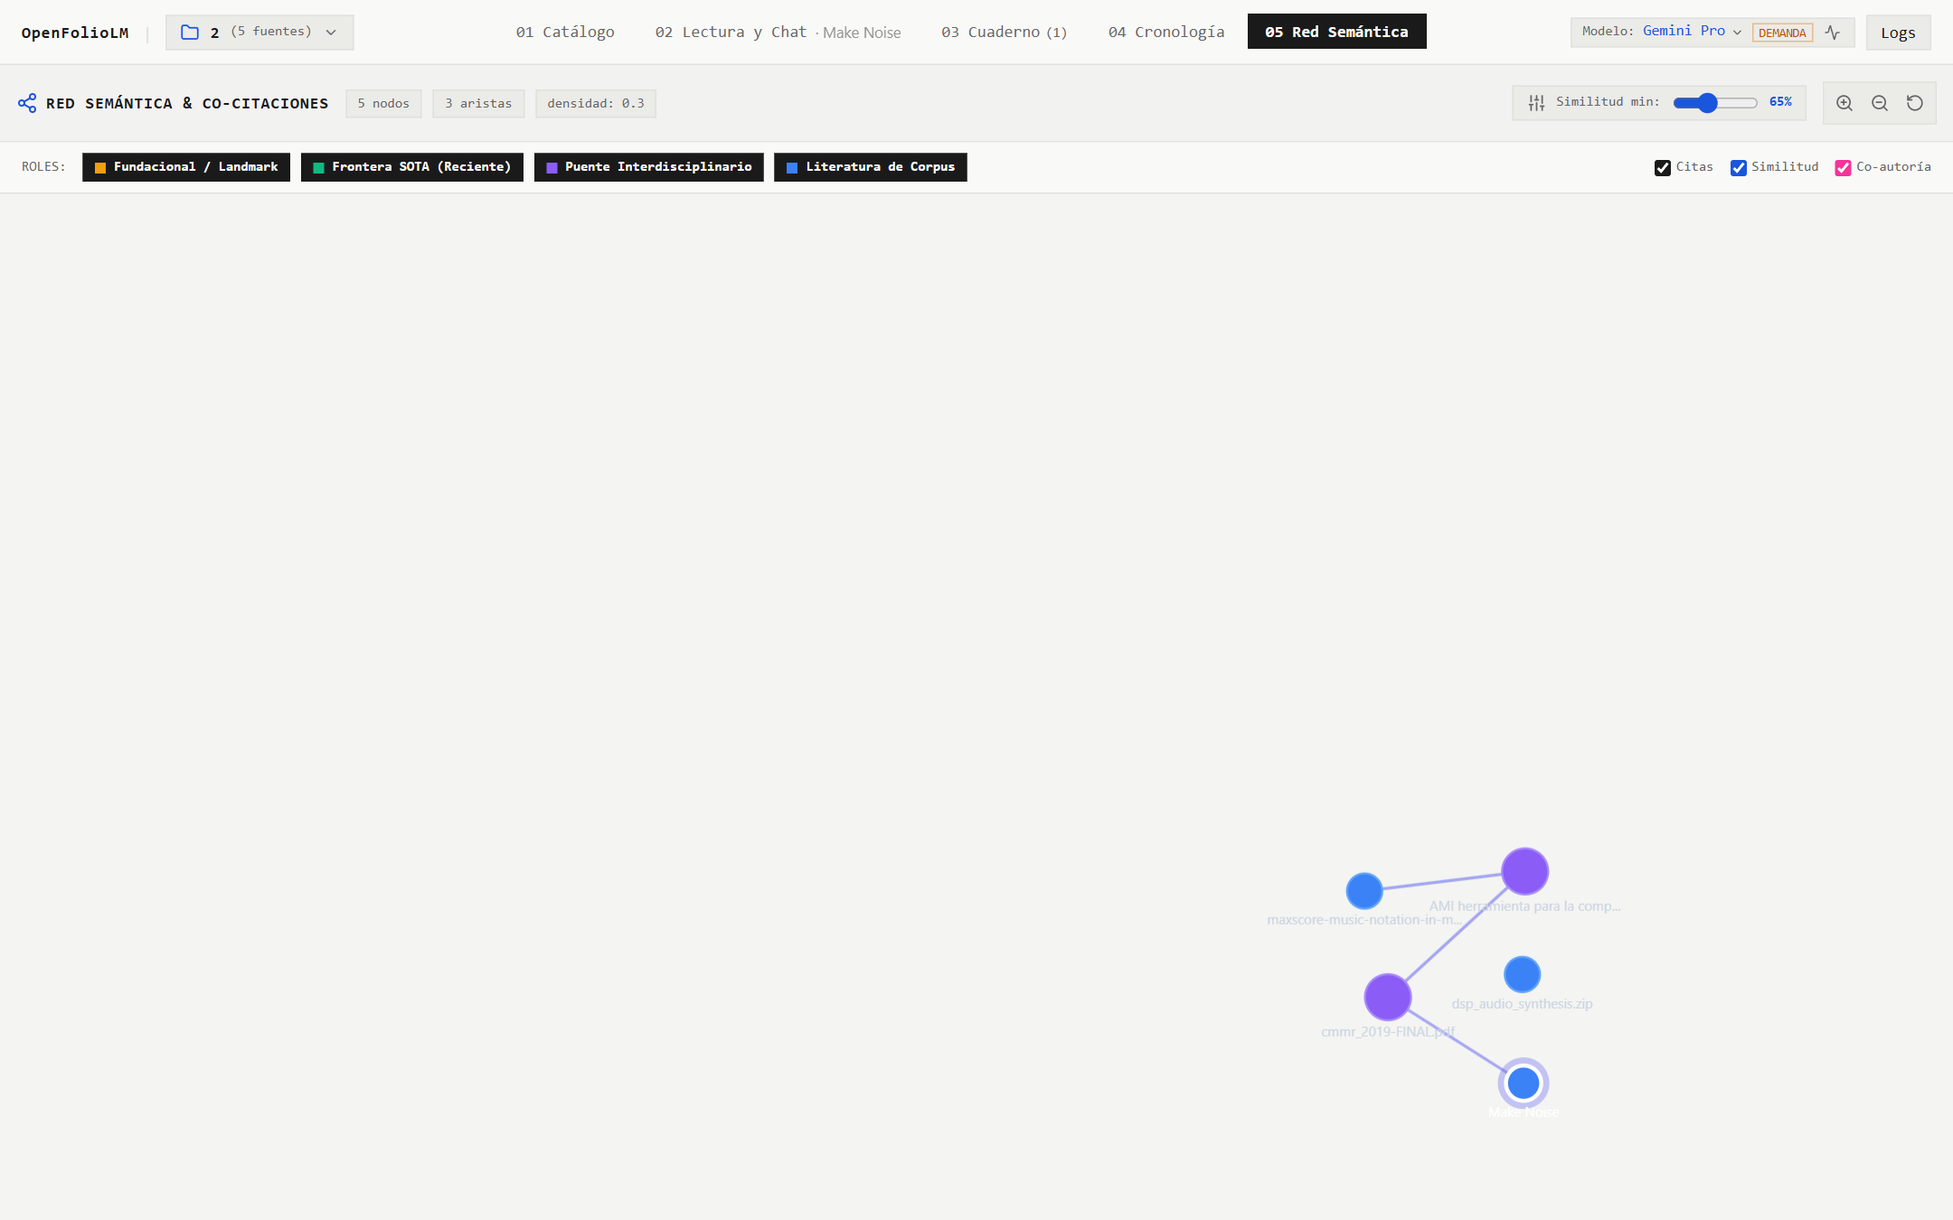
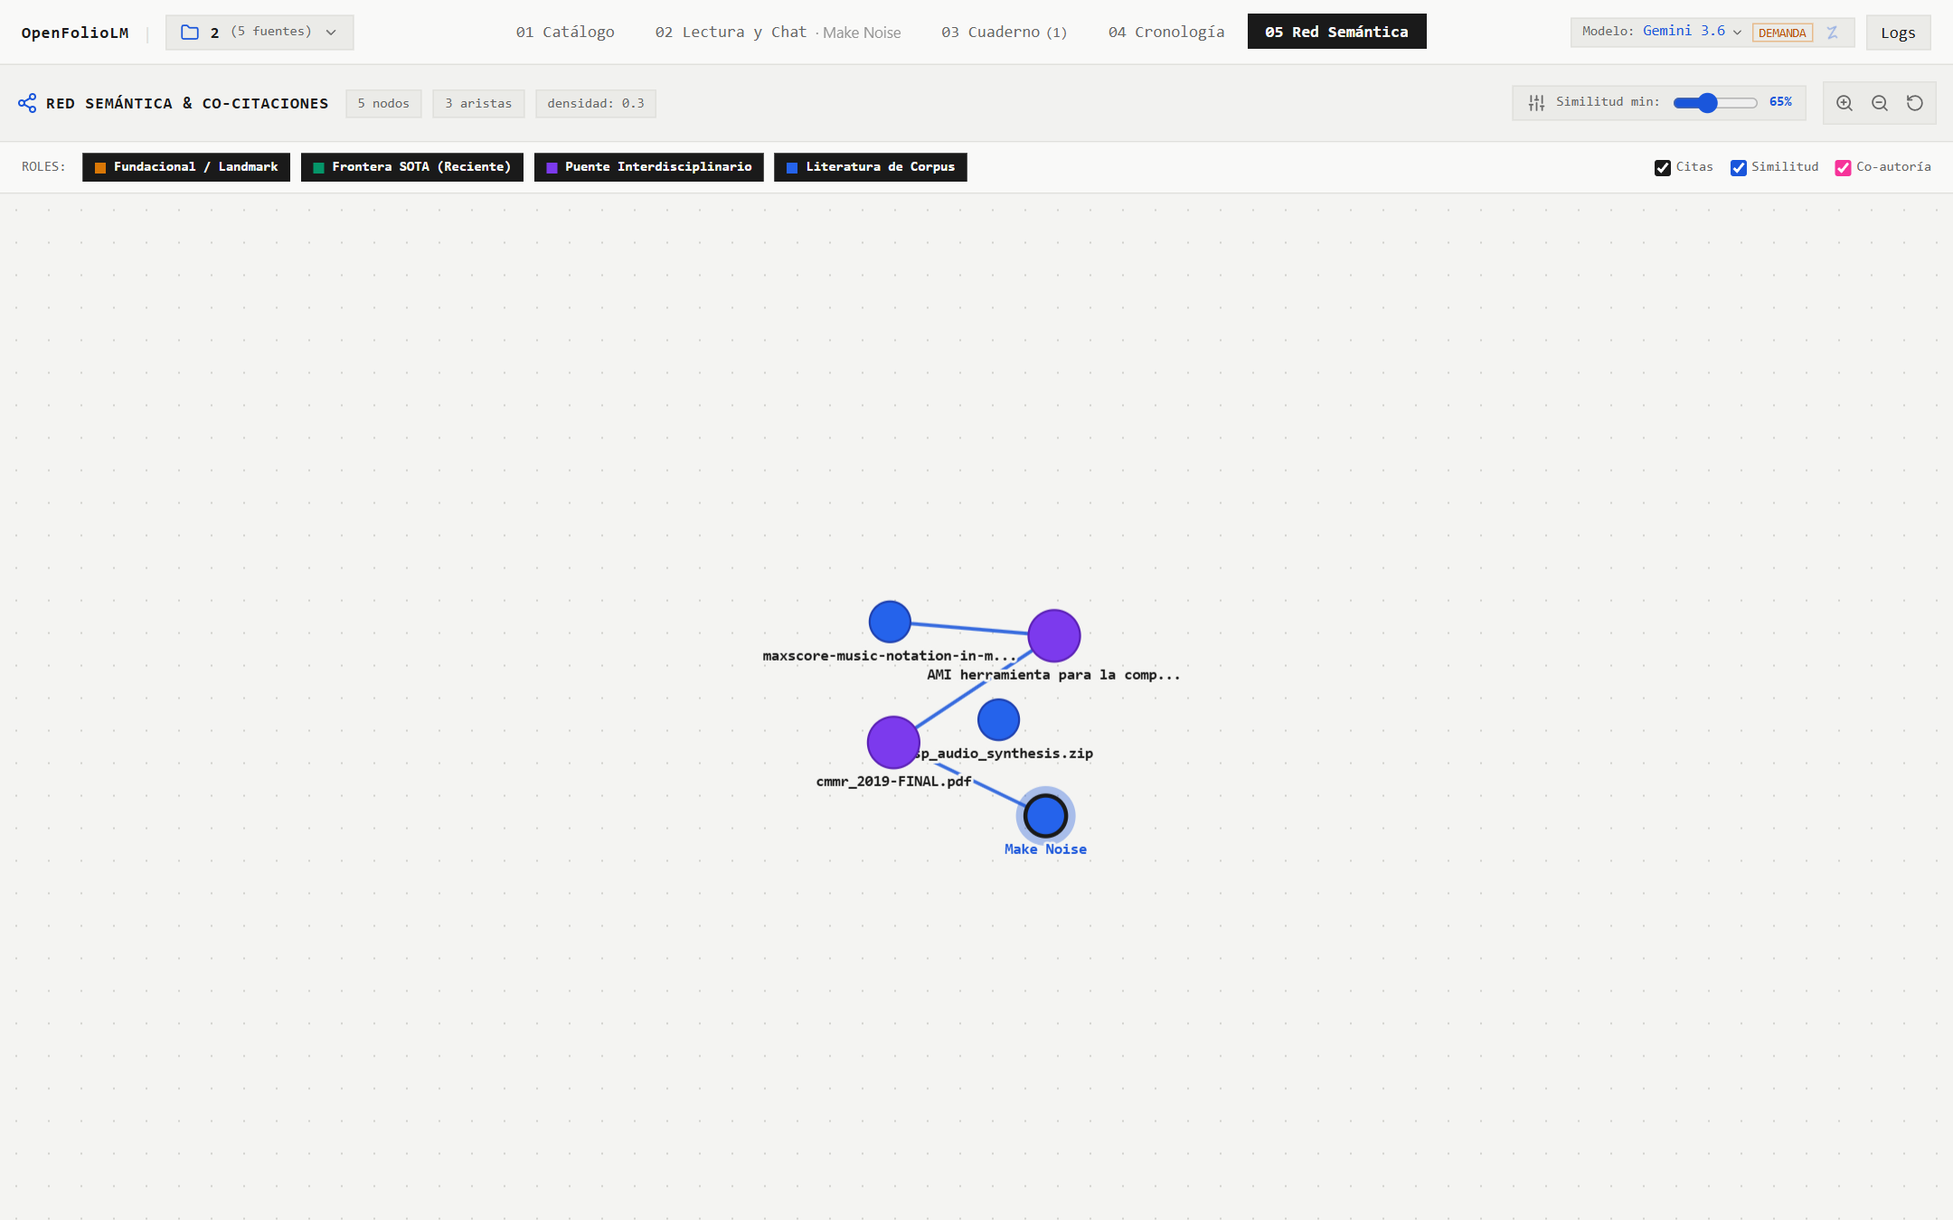
fix(ui): harmonize code viewer with paper-and-ink and improve graph contrast
- Migrate CodeViewer to Paper and Ink brutalist theme

- Correct canvas DPR coordinate space centering in NetworkGraphViewer

- Add high-contrast halos and dot-grid matrix to semantic graph

- Refresh all 17 user manual screenshots

diff --git a/frontend/src/components/CodeViewer.tsx b/frontend/src/components/CodeViewer.tsx
@@ -107,32 +107,32 @@ export const CodeViewer: React.FC<CodeViewerProps> = ({
   }, [fileKeys, filterQuery]);
 
   return (
-    <div className="h-full flex flex-col bg-slate-950 border-r border-slate-800/80 overflow-hidden select-text">
+    <div className="h-full flex flex-col bg-[#F9F9F8] dark:bg-[#121214] text-[#1A1A1A] dark:text-[#EDEDED] border-r border-[#E0E0DC] dark:border-[#2A2A2E] overflow-hidden select-text font-sans">
       {/* Code Header */}
-      <div className="flex items-center justify-between px-5 py-3 border-b border-slate-800/80 bg-slate-900/90 backdrop-blur shrink-0">
-        <div className="flex items-center gap-3 min-w-0">
-          <div className="p-2 bg-cyan-500/10 text-cyan-400 rounded-lg border border-cyan-500/20">
-            {isRepo ? <FolderTree className="w-5 h-5" /> : <Code2 className="w-5 h-5" />}
+      <div className="flex items-center justify-between px-4 py-2.5 border-b border-[#E0E0DC] dark:border-[#2A2A2E] bg-[#F2F2F0] dark:bg-[#161618] shrink-0 font-mono">
+        <div className="flex items-center gap-2.5 min-w-0">
+          <div className="p-1.5 bg-[#EBEBE8] dark:bg-[#1E1E22] text-[#1A56DB] dark:text-[#60A5FA] border border-[#E0E0DC] dark:border-[#2A2A2E]">
+            {isRepo ? <FolderTree className="w-4 h-4" /> : <Code2 className="w-4 h-4" />}
           </div>
           <div className="min-w-0">
             <div className="flex items-center gap-2">
-              <h2 className="text-sm font-semibold text-slate-200 truncate font-mono" title={currentFileName}>
+              <h2 className="text-xs font-bold text-[#1A1A1A] dark:text-[#EDEDED] truncate font-mono" title={currentFileName}>
                 {currentFileName}
               </h2>
-              <span className="text-[10px] uppercase font-mono px-2 py-0.5 rounded bg-slate-800 text-cyan-300 border border-slate-700">
+              <span className="text-[9px] uppercase font-mono px-1.5 py-0.2 bg-[#EBEBE8] dark:bg-[#1E1E22] text-[#1A56DB] dark:text-[#60A5FA] border border-[#E0E0DC] dark:border-[#2A2A2E]">
                 {ext}
               </span>
             </div>
-            <p className="text-xs text-slate-400 font-mono">
-              {lines.length} líneas &bull; {activeCode.length.toLocaleString()} caracteres
-              {isRepo ? ` &bull; ${fileKeys.length} archivos en repo` : ''}
+            <p className="text-[10px] text-[#666666] dark:text-[#888888] font-mono tabular-nums">
+              {lines.length} líneas · {activeCode.length.toLocaleString()} caracteres
+              {isRepo ? ` · ${fileKeys.length} archivos en paquete` : ''}
             </p>
           </div>
         </div>
 
         <div className="flex items-center gap-2">
           {isTargetInCurrentCode && (
-            <span className="inline-flex items-center gap-1 px-2.5 py-1 text-xs font-medium rounded-full bg-amber-500/10 text-amber-400 border border-amber-500/30">
+            <span className="inline-flex items-center gap-1 px-2 py-0.5 text-[10px] font-mono bg-amber-500/15 text-amber-800 dark:text-amber-300 border border-amber-500/30">
               <Bookmark className="w-3 h-3" /> Cita Enfocada
             </span>
           )}
@@ -140,7 +140,7 @@ export const CodeViewer: React.FC<CodeViewerProps> = ({
           {highlightTarget && onClearHighlight && (
             <button
               onClick={onClearHighlight}
-              className="text-xs text-slate-400 hover:text-slate-200 underline"
+              className="text-[10px] font-mono text-[#666666] dark:text-[#888888] hover:text-[#1A1A1A] dark:hover:text-[#EDEDED] underline cursor-pointer"
             >
               Limpiar
             </button>
@@ -148,34 +148,34 @@ export const CodeViewer: React.FC<CodeViewerProps> = ({
 
           <button
             onClick={handleCopy}
-            className="flex items-center gap-1 px-2.5 py-1 text-xs text-slate-400 hover:text-slate-200 rounded-lg hover:bg-slate-800 transition-colors border border-slate-800 cursor-pointer"
-            title="Copiar código"
+            className="flex items-center gap-1 px-2.5 py-1 text-xs font-mono bg-[#EBEBE8] dark:bg-[#1E1E22] hover:bg-[#E0E0DC] dark:hover:bg-[#2A2A2E] text-[#1A1A1A] dark:text-[#EDEDED] border border-[#E0E0DC] dark:border-[#2A2A2E] transition-colors cursor-pointer"
+            title="Copiar código fuente"
           >
-            {copied ? <Check className="w-3.5 h-3.5 text-emerald-400" /> : <Copy className="w-3.5 h-3.5" />}
+            {copied ? <Check className="w-3 h-3 text-emerald-600 dark:text-emerald-400" /> : <Copy className="w-3 h-3" />}
             <span>{copied ? 'Copiado' : 'Copiar'}</span>
           </button>
         </div>
       </div>
 
-      {/* Main Workspace: Optional Repo Tree Sidebar + Code Pane */}
-      <div className="flex-1 flex overflow-hidden">
+      {/* Main Workspace: Repo File Explorer Sidebar + Code Pane */}
+      <div className="flex-1 flex overflow-hidden font-mono">
         {/* Repo File Explorer Sidebar */}
         {isRepo && (
-          <div className="w-60 border-r border-slate-800/80 bg-slate-900/40 flex flex-col shrink-0">
-            <div className="p-2 border-b border-slate-800/60">
+          <div className="w-56 border-r border-[#E0E0DC] dark:border-[#2A2A2E] bg-[#F2F2F0] dark:bg-[#161618] flex flex-col shrink-0">
+            <div className="p-2 border-b border-[#E0E0DC] dark:border-[#2A2A2E]">
               <div className="relative">
-                <Search className="w-3.5 h-3.5 text-slate-500 absolute left-2.5 top-2.5" />
+                <Search className="w-3 h-3 text-[#666666] dark:text-[#888888] absolute left-2 top-2" />
                 <input
                   type="text"
                   placeholder="Filtrar archivos..."
                   value={filterQuery}
                   onChange={(e) => setFilterQuery(e.target.value)}
-                  className="w-full bg-slate-950/80 border border-slate-800 rounded-lg pl-8 pr-2 py-1 text-xs text-slate-200 placeholder-slate-500 focus:outline-none focus:ring-1 focus:ring-cyan-500"
+                  className="w-full bg-[#EBEBE8] dark:bg-[#1E1E22] border border-[#E0E0DC] dark:border-[#2A2A2E] pl-7 pr-2 py-1 text-[11px] text-[#1A1A1A] dark:text-[#EDEDED] placeholder-[#999999] dark:placeholder-[#555555] focus:outline-none focus:border-[#1A1A1A] dark:focus:border-[#EDEDED]"
                 />
               </div>
             </div>
 
-            <div className="flex-1 overflow-y-auto p-1.5 space-y-0.5 font-mono text-xs">
+            <div className="flex-1 overflow-y-auto p-1 space-y-0.5 font-mono text-xs">
               {visibleFiles.map((file) => {
                 const isSelected = file === selectedFile;
                 const fileHasActiveCitation =
@@ -188,19 +188,19 @@ export const CodeViewer: React.FC<CodeViewerProps> = ({
                   <button
                     key={file}
                     onClick={() => setSelectedFile(file)}
-                    className={`w-full text-left px-2.5 py-1.5 rounded-lg flex items-center justify-between gap-1.5 transition-colors cursor-pointer group ${
+                    className={`w-full text-left px-2 py-1 flex items-center justify-between gap-1.5 transition-colors cursor-pointer border ${
                       isSelected
-                        ? 'bg-cyan-950/60 text-cyan-300 font-semibold border border-cyan-500/30'
-                        : 'text-slate-400 hover:text-slate-200 hover:bg-slate-800/50'
+                        ? 'bg-[#1A1A1A] text-[#F9F9F8] dark:bg-[#EDEDED] dark:text-[#121214] border-[#1A1A1A] dark:border-[#EDEDED] font-bold'
+                        : 'bg-transparent text-[#666666] dark:text-[#888888] border-transparent hover:bg-[#EBEBE8] dark:hover:bg-[#1E1E22] hover:text-[#1A1A1A] dark:hover:text-[#EDEDED]'
                     }`}
                     title={file}
                   >
-                    <span className="truncate flex items-center gap-1.5">
-                      <FileCode className={`w-3.5 h-3.5 shrink-0 ${isSelected ? 'text-cyan-400' : 'text-slate-500'}`} />
-                      <span className="truncate">{file}</span>
+                    <span className="truncate flex items-center gap-1.5 min-w-0">
+                      <FileCode className={`w-3 h-3 shrink-0 ${isSelected ? 'text-[#F9F9F8] dark:text-[#121214]' : 'text-[#666666] dark:text-[#888888]'}`} />
+                      <span className="truncate text-[11px]">{file}</span>
                     </span>
                     {fileHasActiveCitation && (
-                      <span className="w-2 h-2 rounded-full bg-amber-400 shrink-0" title="Contiene la cita citada" />
+                      <span className="w-1.5 h-1.5 bg-amber-500 shrink-0" title="Contiene cita activa" />
                     )}
                   </button>
                 );
@@ -210,7 +210,7 @@ export const CodeViewer: React.FC<CodeViewerProps> = ({
         )}
 
         {/* Code Content Pane with Line Numbers */}
-        <div className="flex-1 overflow-y-auto bg-slate-950 p-4 font-mono text-xs leading-relaxed">
+        <div className="flex-1 overflow-y-auto bg-[#F9F9F8] dark:bg-[#121214] p-3 font-mono text-xs leading-relaxed">
           <div className="table w-full border-collapse">
             {lines.map((line, idx) => {
               const lineNum = idx + 1;
@@ -226,16 +226,16 @@ export const CodeViewer: React.FC<CodeViewerProps> = ({
                   ref={isLineInQuote ? highlightRef : undefined}
                   className={`table-row transition-colors ${
                     isLineInQuote
-                      ? 'bg-amber-400/15 border-l-4 border-amber-400 text-amber-200'
-                      : 'hover:bg-slate-900/60 text-slate-300'
+                      ? 'bg-amber-500/15 border-l-2 border-amber-500 text-amber-900 dark:text-amber-200 font-semibold'
+                      : 'hover:bg-[#EBEBE8]/60 dark:hover:bg-[#1E1E22]/60 text-[#1A1A1A] dark:text-[#EDEDED]'
                   }`}
                 >
                   {/* Line Number Gutter */}
-                  <span className="table-cell text-right pr-4 pl-2 select-none text-slate-600 font-mono text-[11px] w-12 shrink-0">
+                  <span className="table-cell text-right pr-3 pl-1 select-none text-[#999999] dark:text-[#555555] font-mono text-[11px] w-10 shrink-0 border-r border-[#E0E0DC] dark:border-[#2A2A2E]">
                     {lineNum}
                   </span>
                   {/* Code Content */}
-                  <span className="table-cell whitespace-pre font-mono pl-2">
+                  <span className="table-cell whitespace-pre font-mono pl-3">
                     {line || ' '}
                   </span>
                 </div>

diff --git a/frontend/src/components/NetworkGraphViewer.tsx b/frontend/src/components/NetworkGraphViewer.tsx
@@ -26,10 +26,10 @@ interface SimNode extends GraphNode {
 }
 
 const ROLE_COLORS: Record<GraphRole, { fill: string; stroke: string; label: string; icon: string }> = {
-  foundation: { fill: '#f59e0b', stroke: '#fbbf24', label: 'Fundacional / Landmark', icon: 'Award' },
-  frontier: { fill: '#10b981', stroke: '#34d399', label: 'Frontera SOTA (Reciente)', icon: 'Zap' },
-  bridge: { fill: '#8b5cf6', stroke: '#a78bfa', label: 'Puente Interdisciplinario', icon: 'GitMerge' },
-  corpus: { fill: '#3b82f6', stroke: '#60a5fa', label: 'Literatura de Corpus', icon: 'BookOpen' },
+  foundation: { fill: '#d97706', stroke: '#92400e', label: 'Fundacional / Landmark', icon: 'Award' },
+  frontier: { fill: '#059669', stroke: '#065f46', label: 'Frontera SOTA (Reciente)', icon: 'Zap' },
+  bridge: { fill: '#7c3aed', stroke: '#5b21b6', label: 'Puente Interdisciplinario', icon: 'GitMerge' },
+  corpus: { fill: '#2563eb', stroke: '#1e40af', label: 'Literatura de Corpus', icon: 'BookOpen' },
 };
 
 export const NetworkGraphViewer: React.FC<NetworkGraphViewerProps> = ({
@@ -81,18 +81,19 @@ export const NetworkGraphViewer: React.FC<NetworkGraphViewerProps> = ({
       const data = await fetchProjectNetwork(projectId, minSimilarity);
       setGraphData(data);
 
-      // Initialize simulation positions
+      // Initialize simulation positions in CSS coordinates
       const canvas = canvasRef.current;
-      const width = canvas ? canvas.width : 700;
-      const height = canvas ? canvas.height : 600;
+      const rect = canvas?.getBoundingClientRect();
+      const width = rect && rect.width > 0 ? rect.width : (canvas?.clientWidth || 800);
+      const height = rect && rect.height > 0 ? rect.height : (canvas?.clientHeight || 600);
       const cx = width / 2;
       const cy = height / 2;
 
       simNodesRef.current = data.nodes.map((node, i) => {
         const angle = (i / Math.max(1, data.nodes.length)) * 2 * Math.PI;
-        const dist = 120 + Math.random() * 100;
+        const dist = 140 + Math.random() * 80;
         const radius =
-          node.role === 'foundation' ? 20 : node.role === 'bridge' ? 17 : node.role === 'frontier' ? 16 : 13;
+          node.role === 'foundation' ? 22 : node.role === 'bridge' ? 19 : node.role === 'frontier' ? 18 : 15;
 
         return {
           ...node,
@@ -134,9 +135,9 @@ export const NetworkGraphViewer: React.FC<NetworkGraphViewerProps> = ({
       const nodes = simNodesRef.current;
       const canvas = canvasRef.current;
       if (!canvas) return;
-
-      const width = canvas.width;
-      const height = canvas.height;
+      const rect = canvas.getBoundingClientRect();
+      const width = rect.width > 0 ? rect.width : (canvas.clientWidth || 800);
+      const height = rect.height > 0 ? rect.height : (canvas.clientHeight || 600);
       const cx = width / 2;
       const cy = height / 2;
 
@@ -223,6 +224,7 @@ export const NetworkGraphViewer: React.FC<NetworkGraphViewerProps> = ({
       ctx.scale(dpr * scale, dpr * scale);
       ctx.translate(offset.x, offset.y);
 
+      const isDark = typeof document !== 'undefined' && document.documentElement.classList.contains('dark');
       const nodes = simNodesRef.current;
 
       // Draw Edges
@@ -236,18 +238,19 @@ export const NetworkGraphViewer: React.FC<NetworkGraphViewerProps> = ({
         ctx.lineTo(t.x, t.y);
 
         if (edge.type === 'citation') {
-          ctx.strokeStyle = 'rgba(148, 163, 184, 0.55)'; // slate-400
-          ctx.lineWidth = 1.8;
+          ctx.strokeStyle = isDark ? 'rgba(148, 163, 184, 0.75)' : 'rgba(71, 85, 105, 0.8)';
+          ctx.lineWidth = 2.0;
           ctx.setLineDash([]);
         } else if (edge.type === 'co_authorship') {
-          ctx.strokeStyle = 'rgba(244, 114, 182, 0.6)'; // pink-400
-          ctx.lineWidth = 1.5;
+          ctx.strokeStyle = isDark ? 'rgba(244, 114, 182, 0.8)' : 'rgba(190, 24, 93, 0.8)';
+          ctx.lineWidth = 1.8;
           ctx.setLineDash([4, 4]);
         } else {
           // semantic similarity
-          const alpha = Math.max(0.2, edge.weight * 0.75);
-          ctx.strokeStyle = `rgba(99, 102, 241, ${alpha})`; // indigo-500
-          ctx.lineWidth = Math.max(1, edge.weight * 3);
+          const baseAlpha = isDark ? 0.35 : 0.5;
+          const alpha = Math.min(1.0, baseAlpha + edge.weight * 0.5);
+          ctx.strokeStyle = isDark ? `rgba(96, 165, 250, ${alpha})` : `rgba(26, 86, 219, ${alpha})`;
+          ctx.lineWidth = Math.max(1.5, edge.weight * 3.5);
           ctx.setLineDash([]);
         }
         ctx.stroke();
@@ -255,7 +258,7 @@ export const NetworkGraphViewer: React.FC<NetworkGraphViewerProps> = ({
         // Draw directed arrow for citations
         if (edge.type === 'citation') {
           const angle = Math.atan2(t.y - s.y, t.x - s.x);
-          const arrowLen = 9;
+          const arrowLen = 10;
           const arrowX = t.x - Math.cos(angle) * (t.radius + 3);
           const arrowY = t.y - Math.sin(angle) * (t.radius + 3);
 
@@ -270,7 +273,7 @@ export const NetworkGraphViewer: React.FC<NetworkGraphViewerProps> = ({
             arrowY - arrowLen * Math.sin(angle + Math.PI / 6)
           );
           ctx.closePath();
-          ctx.fillStyle = 'rgba(148, 163, 184, 0.7)';
+          ctx.fillStyle = isDark ? 'rgba(148, 163, 184, 0.9)' : 'rgba(71, 85, 105, 0.95)';
           ctx.fill();
         }
       }
@@ -287,8 +290,10 @@ export const NetworkGraphViewer: React.FC<NetworkGraphViewerProps> = ({
         // Outer glow on selected or hovered
         if (isSelected || isHovered) {
           ctx.beginPath();
-          ctx.arc(node.x, node.y, node.radius + 6, 0, 2 * Math.PI);
-          ctx.fillStyle = isSelected ? 'rgba(99, 102, 241, 0.35)' : 'rgba(255, 255, 255, 0.2)';
+          ctx.arc(node.x, node.y, node.radius + 7, 0, 2 * Math.PI);
+          ctx.fillStyle = isSelected
+            ? 'rgba(26, 86, 219, 0.35)'
+            : (isDark ? 'rgba(255, 255, 255, 0.2)' : 'rgba(0, 0, 0, 0.1)');
           ctx.fill();
         }
 
@@ -297,16 +302,26 @@ export const NetworkGraphViewer: React.FC<NetworkGraphViewerProps> = ({
         ctx.arc(node.x, node.y, node.radius, 0, 2 * Math.PI);
         ctx.fillStyle = roleConfig.fill;
         ctx.fill();
-        ctx.strokeStyle = isSelected ? '#ffffff' : roleConfig.stroke;
+        ctx.strokeStyle = isSelected ? (isDark ? '#ffffff' : '#1A1A1A') : roleConfig.stroke;
         ctx.lineWidth = isSelected ? 3 : 1.5;
         ctx.stroke();
 
-        // Node Label
-        ctx.font = '10px ui-sans-serif, system-ui, sans-serif';
-        ctx.fillStyle = isSelected ? '#ffffff' : '#cbd5e1';
+        // Node Label with protective halo
+        ctx.font = 'bold 11px ui-monospace, SFMono-Regular, Menlo, Monaco, Consolas, monospace';
         ctx.textAlign = 'center';
         ctx.textBaseline = 'top';
-        ctx.fillText(node.label, node.x, node.y + node.radius + 4);
+
+        // Halo outline for maximum legibility on any background
+        ctx.strokeStyle = isDark ? '#121214' : '#F4F4F2';
+        ctx.lineWidth = 3.5;
+        ctx.lineJoin = 'round';
+        ctx.strokeText(node.label, node.x, node.y + node.radius + 5);
+
+        // Crisp text fill
+        ctx.fillStyle = isSelected
+          ? (isDark ? '#60A5FA' : '#1A56DB')
+          : (isDark ? '#EDEDED' : '#1A1A1A');
+        ctx.fillText(node.label, node.x, node.y + node.radius + 5);
       }
 
       ctx.restore();
@@ -546,7 +561,7 @@ export const NetworkGraphViewer: React.FC<NetworkGraphViewerProps> = ({
       </div>
 
       {/* Main Interactive Canvas */}
-      <div className="flex-1 relative overflow-hidden bg-[#F4F4F2] dark:bg-[#0E0E10] cursor-grab active:cursor-grabbing">
+      <div className="flex-1 relative overflow-hidden bg-[#F4F4F2] dark:bg-[#121214] bg-[radial-gradient(#D0D0CC_1px,transparent_1px)] dark:bg-[radial-gradient(#2A2A2E_1px,transparent_1px)] [background-size:24px_24px] cursor-grab active:cursor-grabbing">
         {isLoading && (
           <div className="absolute inset-0 z-20 flex flex-col items-center justify-center bg-[#F9F9F8]/80 dark:bg-[#121214]/80 backdrop-blur-sm">
             <Sparkles className="w-6 h-6 text-[#1A56DB] dark:text-[#60A5FA] animate-spin mb-2" />

diff --git a/frontend/src/components/SharedConversationView.tsx b/frontend/src/components/SharedConversationView.tsx
@@ -160,7 +160,7 @@ export const SharedConversationView: React.FC<SharedConversationViewProps> = ({
             {snapshot.title}
           </h1>
           <p className="text-[11px] font-mono text-[#666666] dark:text-[#888888]">
-            Publicado el {new Date(snapshot.created_at).toLocaleDateString()} &bull; {snapshot.messages.length} mensajes
+            Publicado el {new Date(snapshot.created_at).toLocaleDateString()} · {snapshot.messages.length} mensajes
           </p>
         </div>
 
